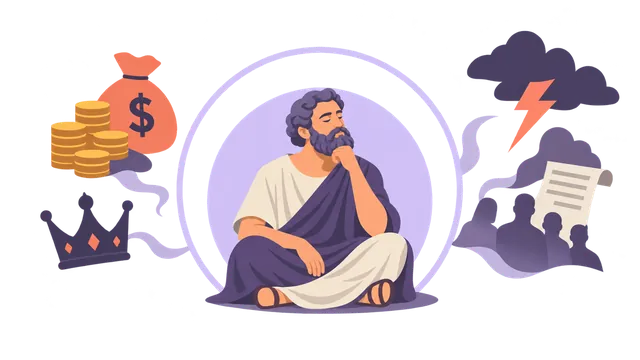
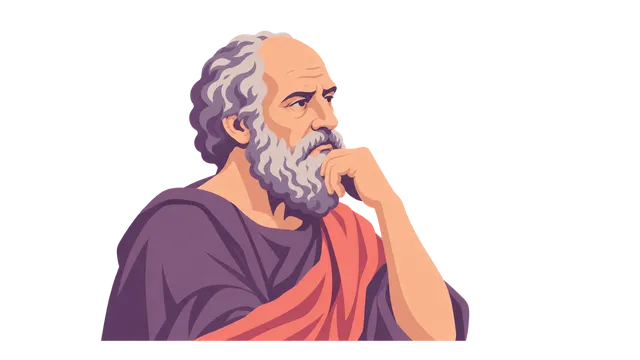
Doplnit portrét Epiktéta k příspěvku 090

diff --git a/src/lib/components/PostIllustration.svelte b/src/lib/components/PostIllustration.svelte
@@ -13,7 +13,7 @@
 		'051', '052', '053', '054', '055', '056', '057', '058', '059', '060',
 		'061', '062', '063', '064', '065', '066', '067', '068', '069', '070',
 		'071', '072', '073', '074', '075', '076', '077', '078', '079', '080',
-		'081', '082', '083', '084', '085', '086', '087', '088', '089',
+		'081', '082', '083', '084', '085', '086', '087', '088', '089', '090',
 		'091', '092', '093', '094', '095', '096', '097', '098', '099', '100',
 		'102', '104', '105', '106', '107', '108', '110', '111', '126', '558'
 	]);

diff --git a/docs/ilustrace-handoff.md b/docs/ilustrace-handoff.md
@@ -98,3 +98,11 @@ Nová `001` (také `081`) ukazuje zákazníky se zavřenými peněženkami vedle
 Obsahová duplicita automaticky neznamená vizuální zaměnitelnost. Při opravě pozadí má přednost konkrétní scéna nejlépe odpovídající textu; odlišný příběh se stejným principem není automaticky náhradou. Toto pravidlo včetně srovnání původní a navržené scény je v ilustračním skillu. Manifest u kopií eviduje `reusedFrom`, `sourceImageSha256`, výsledný `imageSha256`, původní prompt a jeho zdrojový `metadataHash`, důvod nahrazení a hash předchozího souboru, pokud existoval. `009` navíc eviduje revizi a hash původního obrazového podkladu. Pole `illustration` nadále patří cílovému postu. Stav `accepted-user-selected-topic-accompaniment` u 082 výslovně rozlišuje zvolený tematický doprovod od přesné shody scény; starší `accepted-background-reuse` nepotvrzuje úplný sémantický audit.
 
 Ověření této změny zahrnuje dekódování všech 67 WebP, rozměry, alfu, průhledné rohy, limit velikosti, shodu kopií se zdrojem, manifest a zapnutí cílových ID v komponentě. Dále platí `npm test` a `npm run build`.
+
+## P??sp?vek 090
+
+Ilustraci tvo?? samostatn? idealizovan? portr?t Epikt?ta s klidn?m v?razem a rukou u brady. Doprov?z? u?en? o vlastn?ch ?sudc?ch a reakc?ch; nezobrazuje diagram kontroly. Metadata jsou upravena na portr?t bez kruh?, minc?, koruny, bou?e a dal??ch symbol? p?vodn?ho odm?tnut?ho obr?zku. Text p??sp?vku se nem?n?.
+
+Vestav?n? image_gen vytvo?il jeden nov? pr?hledn? v?stup. Fin?ln? RGBA WebP m? 640?360 px, 20 828 B a pr?hledn? odsazen? na v?ech hran?ch. P?i 160?90 a 320?180 px na tmav?m povrchu je portr?t ?iteln? bez obd?ln?kov?ho pozad?. Vlasy, z?hyby a t?nov?n? p?ekra?uj? p??sn? c?l n?kolika ploch. P?esn? prompt, hashe a kontrola jsou v manifestu. N?stroj nenab?zel nastaven? rozm?r?, kvality ani ceny generov?n?. ID 090 je povoleno v PostIllustration.svelte.
+
+Deterministick? repair prob?hl pouze v n?hledu; obecn? p?episy nebyly aplikov?ny. Ov??en?: `npm test`, `npm run build` a `git diff --check`.
